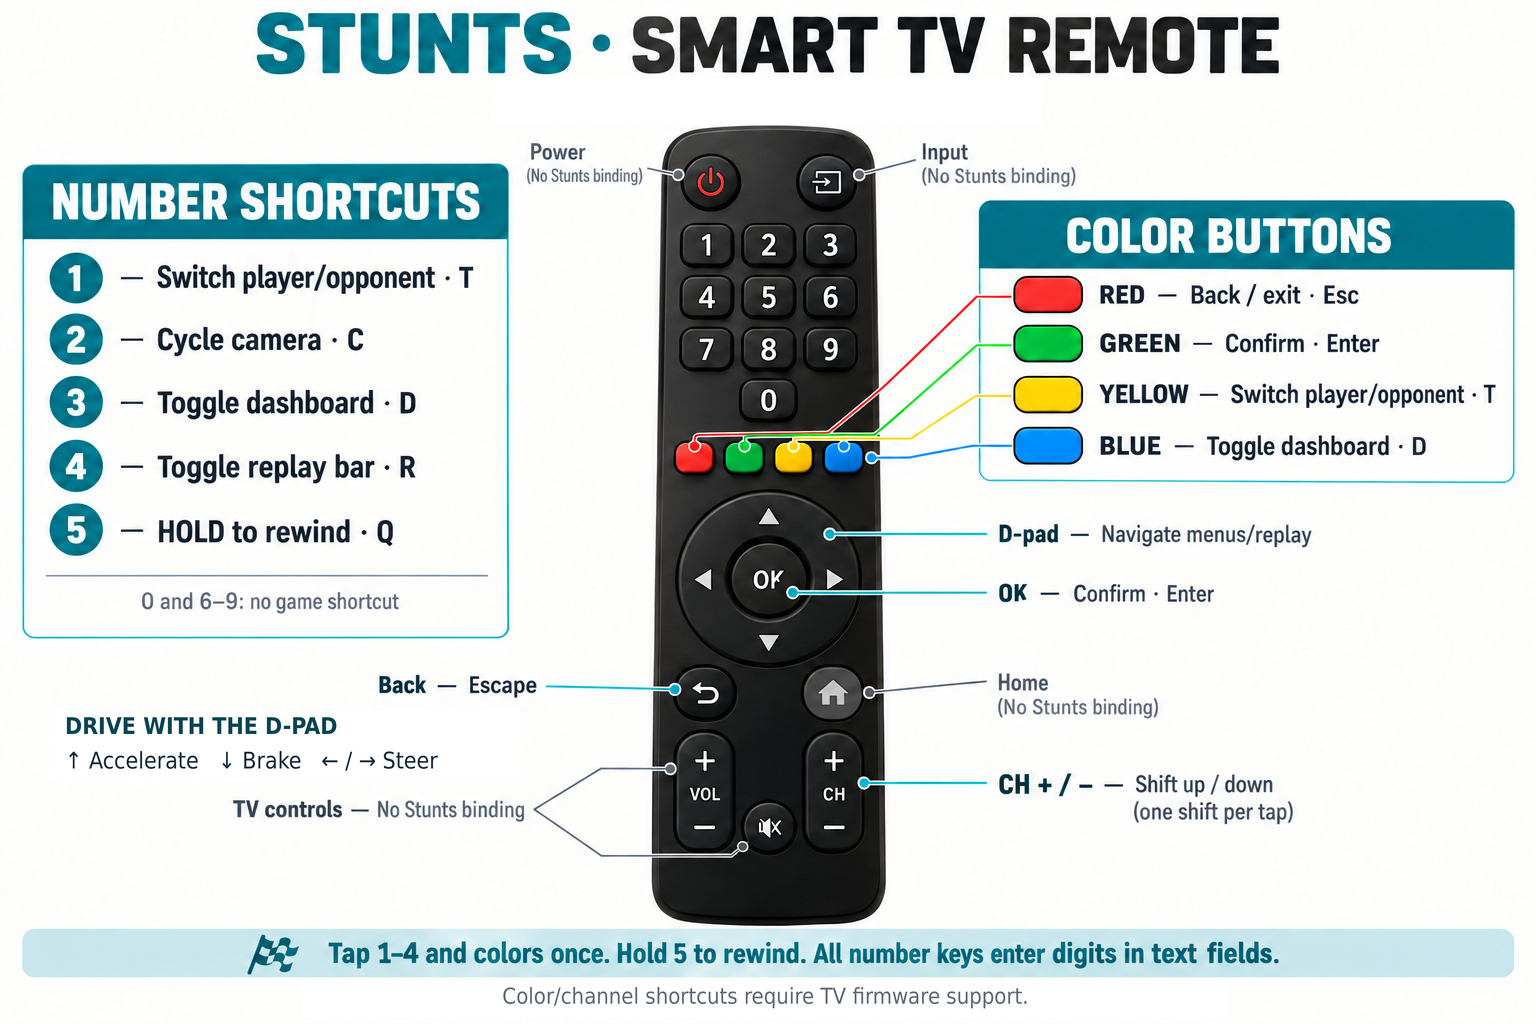
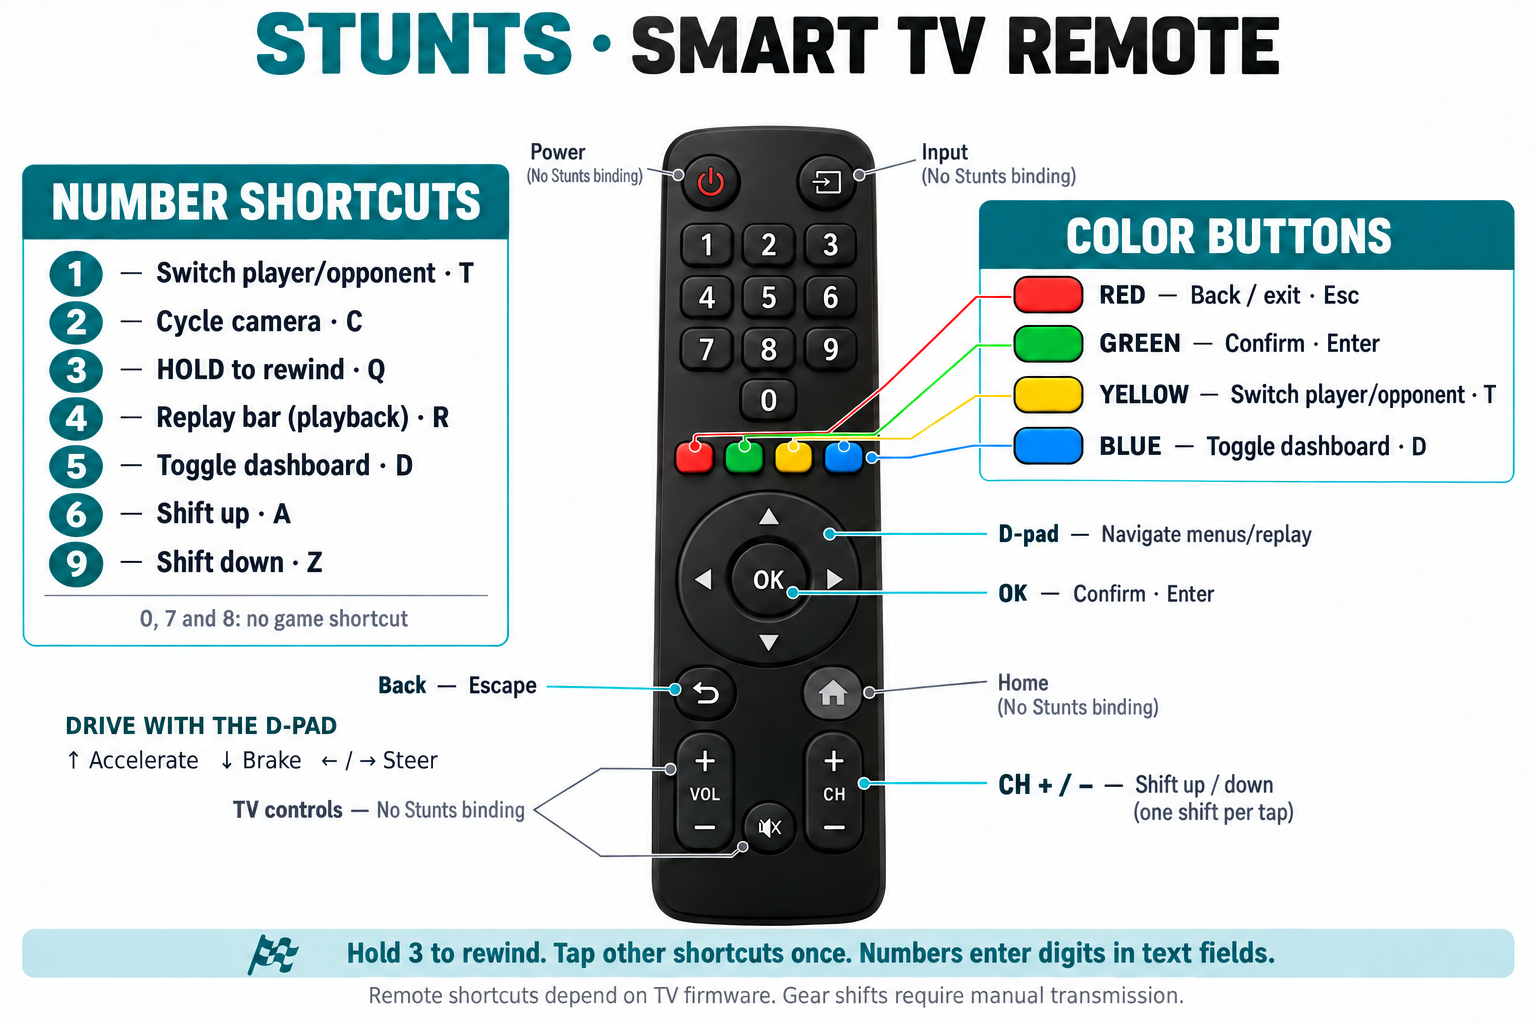
Refresh the Android TV remote guide
Sync both copies of the remote diagram with hold-to-rewind on 3, the
dashboard toggle on 5, and gear shifts on 6 and 9.

Add an accessible shortcut table to the website quick guide and retain
the full-size diagram link.

diff --git a/site/quick-guide.html b/site/quick-guide.html
@@ -319,15 +319,37 @@
                 </div>
                 <div>
                     <dt>Android TV — Use a controller, keyboard, or compatible remote.</dt>
-                    <dd>Use the APK matching your TV’s Android system; some 64-bit TVs run 32-bit Android and need the 32-bit APK. A compatible TV remote navigates menus and drives with the D-pad in Keyboard mode: up accelerates, down brakes, and left/right steer. Extra shortcuts depend on the buttons your TV firmware forwards to the game. If the system folder picker is unavailable, choose Use TV game folder to import a ZIP or use copied game files. Back up this app-owned folder before uninstalling. <a href="https://github.com/CommonLoon102/restunts-bb11/blob/main/docs/android.md#android-tv">TV setup and remote shortcuts</a>.</dd>
+                    <dd>Use the APK matching your TV’s Android system. Some 64-bit TVs run 32-bit Android and need the 32-bit APK. A compatible TV remote navigates menus and drives with the D-pad in Keyboard mode. Press up to accelerate, down to brake, and left or right to steer. If the system folder picker is unavailable, choose Use TV game folder to import a ZIP or use copied game files. Back up this app-owned folder before uninstalling. <a href="https://github.com/CommonLoon102/restunts-bb11/blob/main/docs/android.md#android-tv">TV setup and remote shortcuts</a>.</dd>
                 </div>
             </dl>
             <figure class="control-diagram" id="tv-remote-layout">
                 <a href="assets/controls/stunts-tv-remote-controls-final.png" aria-label="Open the TV remote control layout at full size">
-                    <img src="assets/controls/stunts-tv-remote-controls-final.png" alt="Android TV remote layout: D-pad directions navigate and drive, OK confirms, Back exits, number keys 1–5 control views and rewind, and channel buttons shift gears." width="1536" height="1024" loading="lazy" decoding="async">
+                    <img src="assets/controls/stunts-tv-remote-controls-final.png" alt="Android TV remote diagram with labeled navigation, driving, and shortcut buttons." width="1536" height="1024" loading="lazy" decoding="async">
                 </a>
-                <figcaption>Android TV remote controls and shortcuts. Color and channel buttons depend on TV firmware support. Select the picture to view the full-size layout.</figcaption>
+                <figcaption>Select the remote diagram to open the full-size PNG.</figcaption>
             </figure>
+            <table class="controller-bindings">
+                <caption>Android TV remote shortcuts</caption>
+                <thead>
+                    <tr>
+                        <th scope="col">Remote button</th>
+                        <th scope="col">Keyboard key</th>
+                        <th scope="col">Action</th>
+                    </tr>
+                </thead>
+                <tbody>
+                    <tr><th scope="row">OK or Green</th><td>Enter</td><td>Confirm</td></tr>
+                    <tr><th scope="row">Back or Red</th><td>Escape</td><td>Go back</td></tr>
+                    <tr><th scope="row">1 or Yellow</th><td>T</td><td>Switch between player and opponent views.</td></tr>
+                    <tr><th scope="row">2</th><td>C</td><td>Cycle cameras.</td></tr>
+                    <tr><th scope="row">3</th><td>Q</td><td>Hold to rewind during a live race. Release to resume driving.</td></tr>
+                    <tr><th scope="row">4</th><td>R</td><td>Toggle the replay bar during playback.</td></tr>
+                    <tr><th scope="row">5 or Blue</th><td>D</td><td>Toggle the dashboard.</td></tr>
+                    <tr><th scope="row">6 or Channel Up</th><td>A</td><td>Shift up with manual transmission.</td></tr>
+                    <tr><th scope="row">9 or Channel Down</th><td>Z</td><td>Shift down with manual transmission.</td></tr>
+                </tbody>
+            </table>
+            <p class="note">Shortcut availability depends on the buttons your TV firmware forwards to the game.</p>
         </section>
 
         <section class="guide-section" id="desktop" aria-labelledby="desktop-title">
